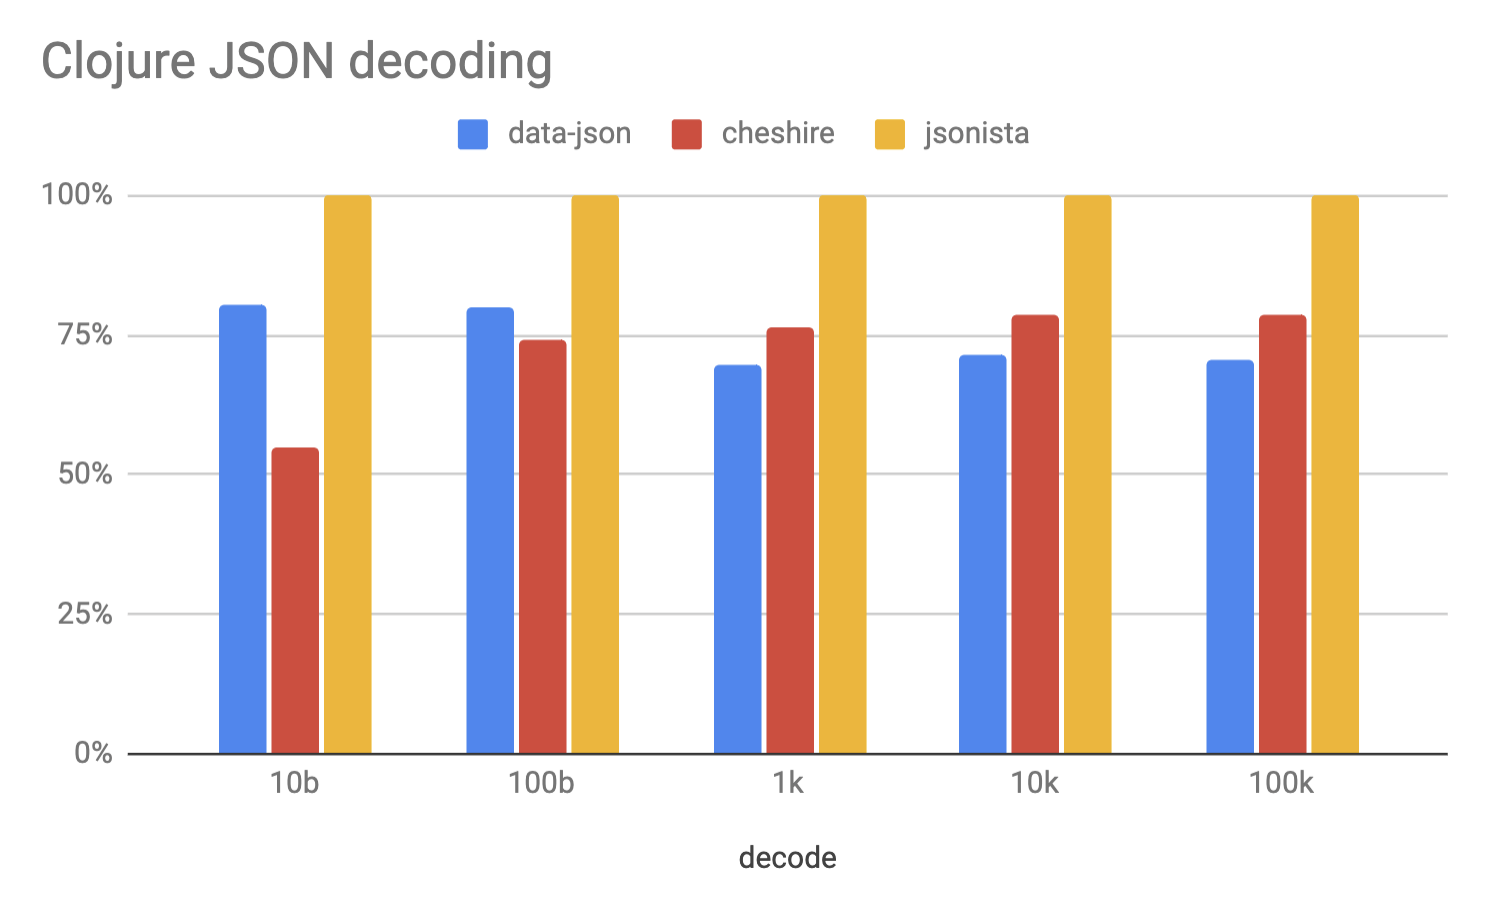
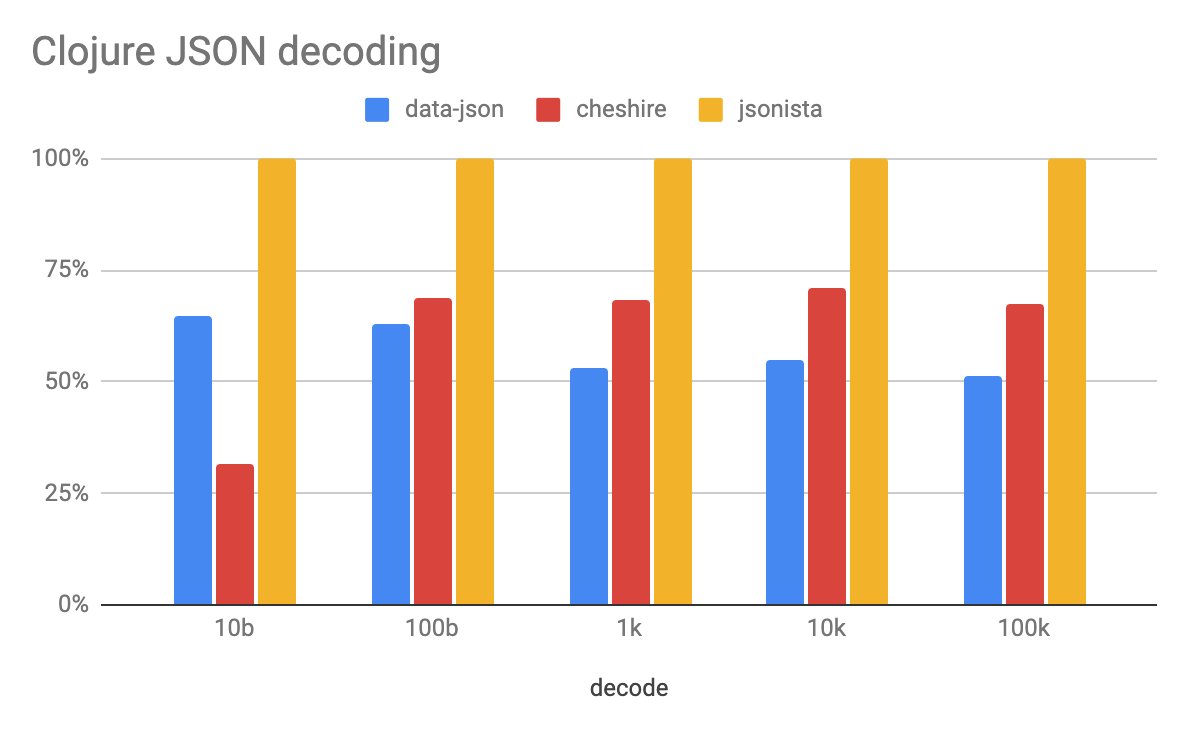
update benchmark

diff --git a/README.md b/README.md
@@ -159,48 +159,48 @@ see [perf-tests](/test/jsonista/jmh.clj) for details.
 ➜  jsonista git:(master) ✗ lein jmh '{:file "benchmarks.edn", :type :quick, :format :table}'
 {:% 100.0 :eta "00:00:00"}
 
-:benchmark                         :name    :mode        :samples  :score              :score-error  :params
------------------------------      -------  -----------  --------  ------------------  ------------  --------------
-jsonista.jmh/encode-data-json      :encode  :throughput  5         1905463.089  ops/s  63122.305     {:size "10b"}
-jsonista.jmh/encode-data-json      :encode  :throughput  5         345349.400   ops/s  175312.845    {:size "100b"}
-jsonista.jmh/encode-data-json      :encode  :throughput  5         55137.457    ops/s  20339.204     {:size "1k"}
-jsonista.jmh/encode-data-json      :encode  :throughput  5         5194.837     ops/s  395.984       {:size "10k"}
-jsonista.jmh/encode-data-json      :encode  :throughput  5         539.111      ops/s  219.494       {:size "100k"}
-jsonista.jmh/encode-cheshire       :encode  :throughput  5         965841.282   ops/s  384153.551    {:size "10b"}
-jsonista.jmh/encode-cheshire       :encode  :throughput  5         414779.218   ops/s  77713.579     {:size "100b"}
-jsonista.jmh/encode-cheshire       :encode  :throughput  5         95781.504    ops/s  16569.179     {:size "1k"}
-jsonista.jmh/encode-cheshire       :encode  :throughput  5         9114.238     ops/s  824.365       {:size "10k"}
-jsonista.jmh/encode-cheshire       :encode  :throughput  5         888.121      ops/s  190.972       {:size "100k"}
-jsonista.jmh/encode-jsonista       :encode  :throughput  5         4354049.558  ops/s  1215677.321   {:size "10b"}
-jsonista.jmh/encode-jsonista       :encode  :throughput  5         1698787.064  ops/s  940540.979    {:size "100b"}
-jsonista.jmh/encode-jsonista       :encode  :throughput  5         376730.022   ops/s  154961.364    {:size "1k"}
-jsonista.jmh/encode-jsonista       :encode  :throughput  5         29272.337    ops/s  5208.374      {:size "10k"}
-jsonista.jmh/encode-jsonista       :encode  :throughput  5         2275.436     ops/s  1329.558      {:size "100k"}
-jsonista.jmh/encode-jackson        :encode  :throughput  5         5471224.116  ops/s  2598678.138   {:size "10b"}
-jsonista.jmh/encode-jackson        :encode  :throughput  5         1509416.980  ops/s  497578.108    {:size "100b"}
-jsonista.jmh/encode-jackson        :encode  :throughput  5         386633.021   ops/s  1158.922      {:size "1k"}
-jsonista.jmh/encode-jackson        :encode  :throughput  5         31780.542    ops/s  2320.829      {:size "10k"}
-jsonista.jmh/encode-jackson        :encode  :throughput  5         2735.888     ops/s  406.603       {:size "100k"}
-jsonista.jmh/decode-data-json      :decode  :throughput  5         2094889.246  ops/s  89077.322     {:size "10b"}
-jsonista.jmh/decode-data-json      :decode  :throughput  5         485354.569   ops/s  23670.883     {:size "100b"}
-jsonista.jmh/decode-data-json      :decode  :throughput  5         83811.653    ops/s  3133.162      {:size "1k"}
-jsonista.jmh/decode-data-json      :decode  :throughput  5         7741.879     ops/s  155.608       {:size "10k"}
-jsonista.jmh/decode-data-json      :decode  :throughput  5         797.233      ops/s  14.762        {:size "100k"}
-jsonista.jmh/decode-cheshire       :decode  :throughput  5         1433093.847  ops/s  90976.064     {:size "10b"}
-jsonista.jmh/decode-cheshire       :decode  :throughput  5         450070.726   ops/s  131950.612    {:size "100b"}
-jsonista.jmh/decode-cheshire       :decode  :throughput  5         91872.057    ops/s  6432.237      {:size "1k"}
-jsonista.jmh/decode-cheshire       :decode  :throughput  5         8509.100     ops/s  156.138       {:size "10k"}
-jsonista.jmh/decode-cheshire       :decode  :throughput  5         887.882      ops/s  33.875        {:size "100k"}
-jsonista.jmh/decode-jsonista       :decode  :throughput  5         2608856.640  ops/s  474804.764    {:size "10b"}
-jsonista.jmh/decode-jsonista       :decode  :throughput  5         607787.943   ops/s  13728.880     {:size "100b"}
-jsonista.jmh/decode-jsonista       :decode  :throughput  5         120542.299   ops/s  39147.980     {:size "1k"}
-jsonista.jmh/decode-jsonista       :decode  :throughput  5         10827.731    ops/s  5616.145      {:size "10k"}
-jsonista.jmh/decode-jsonista       :decode  :throughput  5         1128.572     ops/s  232.442       {:size "100k"}
-jsonista.jmh/decode-jackson        :decode  :throughput  5         5526592.411  ops/s  1463758.000   {:size "10b"}
-jsonista.jmh/decode-jackson        :decode  :throughput  5         1316257.448  ops/s  163658.831    {:size "100b"}
-jsonista.jmh/decode-jackson        :decode  :throughput  5         252440.943   ops/s  14566.399     {:size "1k"}
-jsonista.jmh/decode-jackson        :decode  :throughput  5         23871.633    ops/s  1625.629      {:size "10k"}
-jsonista.jmh/decode-jackson        :decode  :throughput  5         2211.046     ops/s  91.282        {:size "100k"}
+:benchmark                     :name    :mode        :samples  :score              :score-error  :params
+-----------------------------  -------  -----------  --------  ------------------  ------------  --------------
+jsonista.jmh/encode-data-json  :encode  :throughput  5         2011809.137  ops/s  12600.809     {:size "10b"}
+jsonista.jmh/encode-data-json  :encode  :throughput  5         382677.707   ops/s  2861.142      {:size "100b"}
+jsonista.jmh/encode-data-json  :encode  :throughput  5         66403.631    ops/s  597.436       {:size "1k"}
+jsonista.jmh/encode-data-json  :encode  :throughput  5         5480.185     ops/s  58.379        {:size "10k"}
+jsonista.jmh/encode-data-json  :encode  :throughput  5         576.691      ops/s  15.682        {:size "100k"}
+jsonista.jmh/encode-cheshire   :encode  :throughput  5         996875.314   ops/s  5688.227      {:size "10b"}
+jsonista.jmh/encode-cheshire   :encode  :throughput  5         482130.613   ops/s  2685.181      {:size "100b"}
+jsonista.jmh/encode-cheshire   :encode  :throughput  5         128936.005   ops/s  879.709       {:size "1k"}
+jsonista.jmh/encode-cheshire   :encode  :throughput  5         12209.066    ops/s  94.285        {:size "10k"}
+jsonista.jmh/encode-cheshire   :encode  :throughput  5         1258.157     ops/s  12.340        {:size "100k"}
+jsonista.jmh/encode-jsonista   :encode  :throughput  5         6356105.348  ops/s  85360.100     {:size "10b"}
+jsonista.jmh/encode-jsonista   :encode  :throughput  5         2010379.039  ops/s  67648.165     {:size "100b"}
+jsonista.jmh/encode-jsonista   :encode  :throughput  5         409264.663   ops/s  3704.992      {:size "1k"}
+jsonista.jmh/encode-jsonista   :encode  :throughput  5         34527.245    ops/s  251.065       {:size "10k"}
+jsonista.jmh/encode-jsonista   :encode  :throughput  5         2934.595     ops/s  15.858        {:size "100k"}
+jsonista.jmh/encode-jackson    :encode  :throughput  5         6275467.563  ops/s  123578.482    {:size "10b"}
+jsonista.jmh/encode-jackson    :encode  :throughput  5         2092035.098  ops/s  11417.613     {:size "100b"}
+jsonista.jmh/encode-jackson    :encode  :throughput  5         408380.251   ops/s  10912.350     {:size "1k"}
+jsonista.jmh/encode-jackson    :encode  :throughput  5         31992.554    ops/s  230.781       {:size "10k"}
+jsonista.jmh/encode-jackson    :encode  :throughput  5         2887.485     ops/s  12.491        {:size "100k"}
+jsonista.jmh/decode-data-json  :decode  :throughput  5         2257552.949  ops/s  23890.443     {:size "10b"}
+jsonista.jmh/decode-data-json  :decode  :throughput  5         498261.935   ops/s  2348.572      {:size "100b"}
+jsonista.jmh/decode-data-json  :decode  :throughput  5         85191.855    ops/s  321.961       {:size "1k"}
+jsonista.jmh/decode-data-json  :decode  :throughput  5         7763.264     ops/s  250.502       {:size "10k"}
+jsonista.jmh/decode-data-json  :decode  :throughput  5         771.691      ops/s  6.559         {:size "100k"}
+jsonista.jmh/decode-cheshire   :decode  :throughput  5         1099821.870  ops/s  14796.659     {:size "10b"}
+jsonista.jmh/decode-cheshire   :decode  :throughput  5         544013.773   ops/s  4122.539      {:size "100b"}
+jsonista.jmh/decode-cheshire   :decode  :throughput  5         109517.975   ops/s  911.623       {:size "1k"}
+jsonista.jmh/decode-cheshire   :decode  :throughput  5         10017.553    ops/s  50.871        {:size "10k"}
+jsonista.jmh/decode-cheshire   :decode  :throughput  5         1014.003     ops/s  18.609        {:size "100k"}
+jsonista.jmh/decode-jsonista   :decode  :throughput  5         3476196.425  ops/s  21535.641     {:size "10b"}
+jsonista.jmh/decode-jsonista   :decode  :throughput  5         792773.466   ops/s  8209.591      {:size "100b"}
+jsonista.jmh/decode-jsonista   :decode  :throughput  5         160180.797   ops/s  554.940       {:size "1k"}
+jsonista.jmh/decode-jsonista   :decode  :throughput  5         14151.302    ops/s  107.906       {:size "10k"}
+jsonista.jmh/decode-jsonista   :decode  :throughput  5         1508.829     ops/s  5.855         {:size "100k"}
+jsonista.jmh/decode-jackson    :decode  :throughput  5         5145394.434  ops/s  84237.662     {:size "10b"}
+jsonista.jmh/decode-jackson    :decode  :throughput  5         1339393.911  ops/s  6660.176      {:size "100b"}
+jsonista.jmh/decode-jackson    :decode  :throughput  5         274465.912   ops/s  1589.614      {:size "1k"}
+jsonista.jmh/decode-jackson    :decode  :throughput  5         29607.044    ops/s  183.068       {:size "10k"}
+jsonista.jmh/decode-jackson    :decode  :throughput  5         2539.491     ops/s  17.753        {:size "100k"}
 ```
 
 ## Making a release
